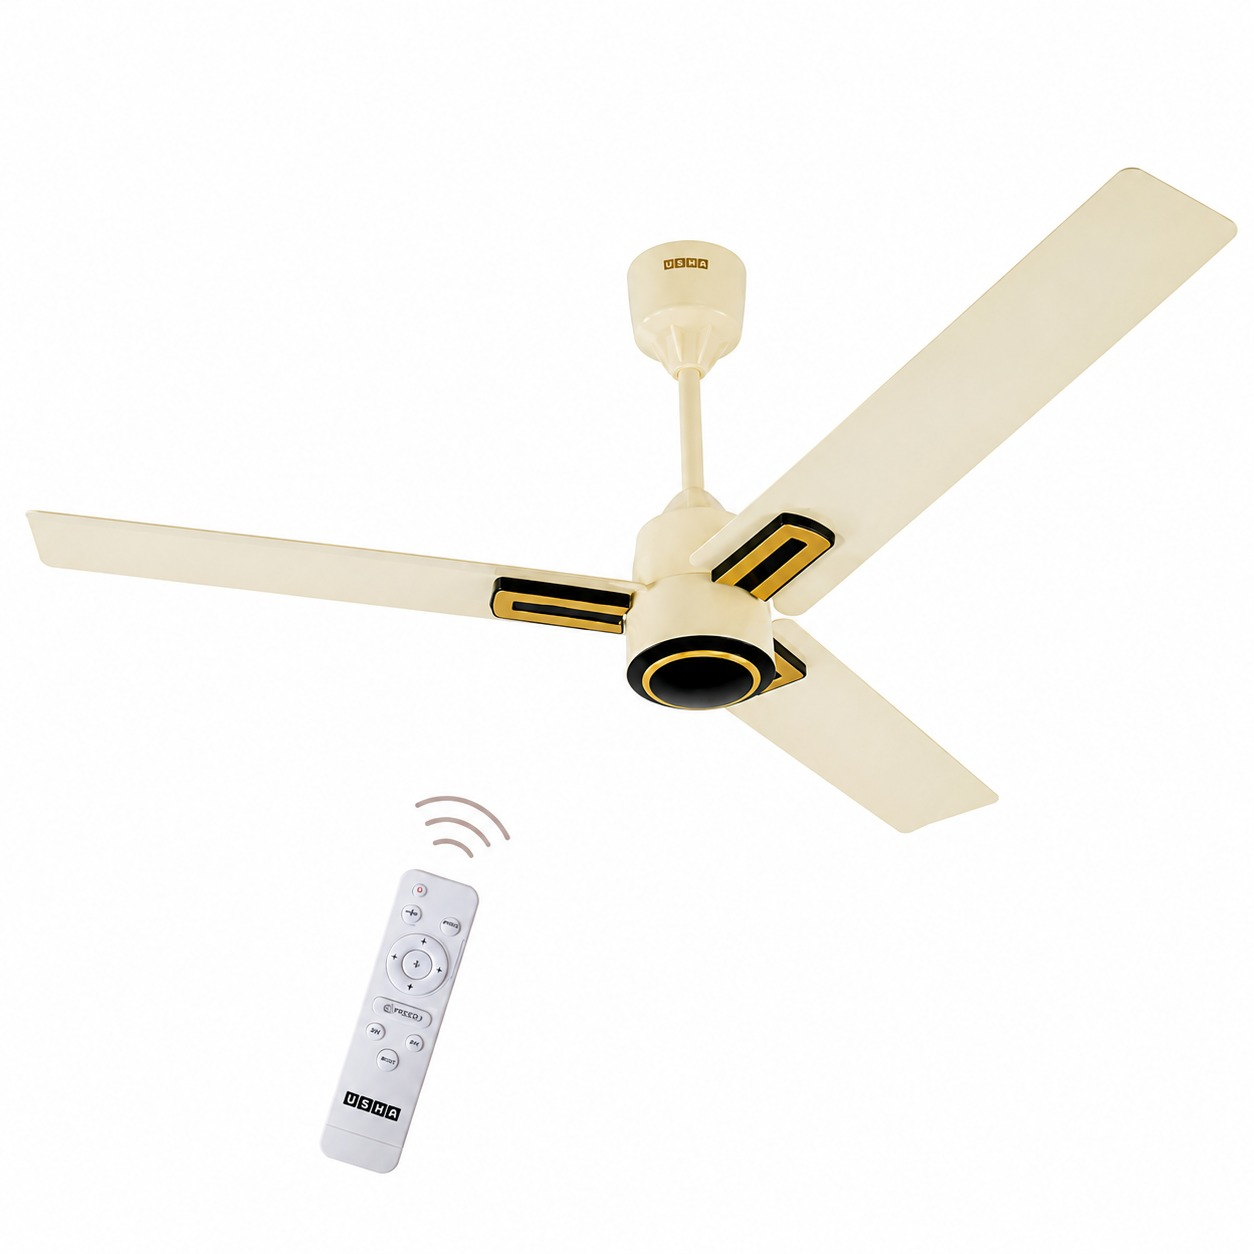
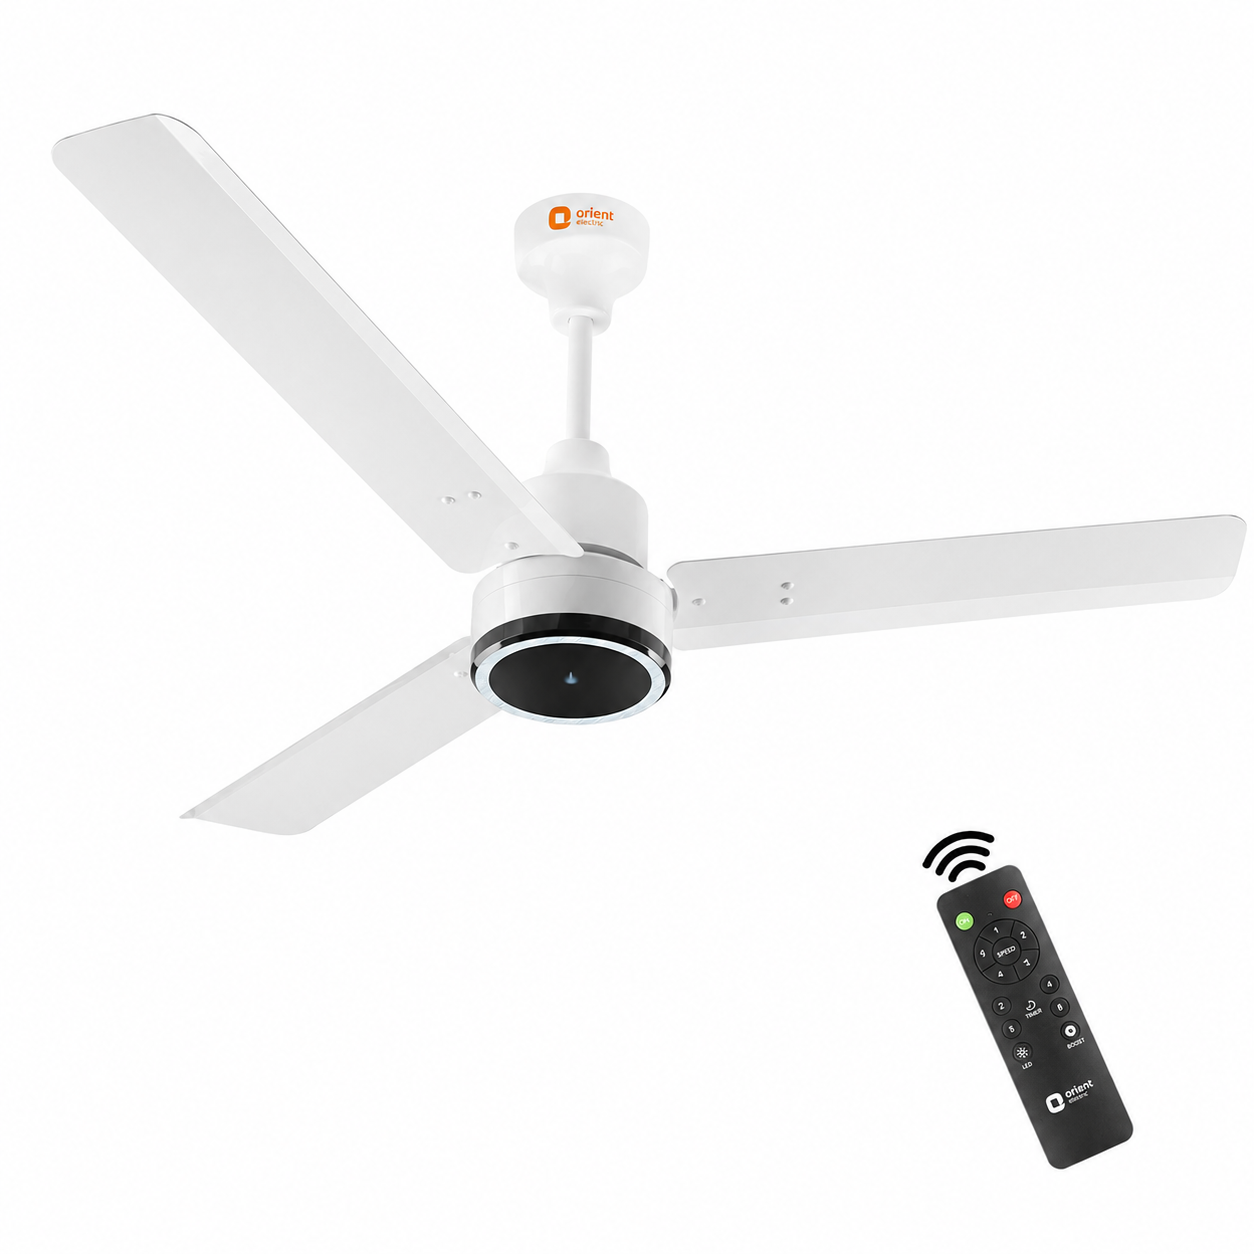
chore: add new furniture products and update Crompton fan details

Changed region(s): [[0.0, 0.0933, 0.9952, 0.933], [0.2488, 0.622, 0.4043, 0.933], [0.4354, 0.1555, 0.4976, 0.1866]]

diff --git a/src/data/products.ts b/src/data/products.ts
@@ -20,6 +20,20 @@ export interface Product {
 export const products: Product[] = [
   // --- FURNITURE: SOFAS ---
   {
+    id: "f021",
+    name: "3 Seater Wooden Sofa Set",
+    category: "furniture",
+    subcategory: "Sofas",
+    price: 12517,
+    rating: 4.5,
+    reviewCount: 420,
+    images: ["/products/product-35.jpeg"],
+    description: "Elegant 3-seater wooden sofa set featuring a durable solid wood frame and comfortable cushioned seating. A perfect blend of traditional and modern style.",
+    features: ["Solid wood frame", "Comfortable fabric cushions", "3 seater design", "Durable finish", "Easy assembly"],
+    specs: { Configuration: "3 Seater", Material: "Solid Wood", Upholstery: "Fabric", Warranty: "1 Year" },
+    inStock: true,
+  },
+  {
     id: "f001",
     name: "Wooden 5-Seater Sofa Set with Centre Table",
     category: "furniture",
@@ -94,6 +108,20 @@ export const products: Product[] = [
     specs: { Size: "Single (6x3 ft)", Material: "Teak + MDF", Storage: "2 drawers", "Age Group": "4-14 years", Warranty: "2 Years" },
     inStock: true,
     colors: ["Teak & White"],
+  },
+  {
+    id: "f020",
+    name: "Wakefit Taurus Engineered Wood Queen Hydraulic Bed",
+    category: "furniture",
+    subcategory: "Bedroom",
+    price: 20909,
+    rating: 4.6,
+    reviewCount: 910,
+    images: ["/products/product-34.jpeg"],
+    description: "Wakefit Taurus Queen size bed crafted from high-quality engineered wood. Features a hydraulic storage system providing ample space for your bedding and essentials, finished in a premium Columbian Walnut color.",
+    features: ["Queen size", "Hydraulic storage system", "Premium Columbian Walnut finish", "Engineered wood construction", "Easy lift mechanism"],
+    specs: { Size: "Queen", Material: "Engineered Wood", Storage: "Hydraulic", Finish: "Columbian Walnut", Warranty: "3 Years" },
+    inStock: true,
   },
 
   // --- FURNITURE: DINING ---
@@ -340,30 +368,44 @@ export const products: Product[] = [
   },
   {
     id: "e007",
-    name: "Crompton Aura Prime Ceiling Fan 1200mm",
+    name: "Crompton Caelum with 4 Year Warranty BLDC with Remote and Regulator 1200 mm Ceiling Fan",
     category: "electronics",
     subcategory: "Home Appliances",
     price: 1650,
     rating: 4.5,
     reviewCount: 2341,
     images: ["/products/product-14.jpeg"],
-    description: "Crompton Aura Prime 1200mm ceiling fan in premium brown finish with anti-dust coating and high air delivery motor. Suitable for rooms up to 144 sq ft.",
-    features: ["1200mm sweep", "Anti-dust coating", "High-speed motor", "Aerodynamic blades", "2-year warranty"],
-    specs: { Sweep: "1200mm", Power: "75W", "Air Delivery": "230 CMM", Finish: "Brown", Warranty: "2 Years" },
+    description: "Crompton Caelum 1200mm BLDC ceiling fan in a sleek grey finish. Comes with both a remote and a regulator for ultimate convenience and energy efficiency.",
+    features: ["Energy efficient BLDC motor", "Includes Remote and Regulator", "1200mm sweep", "Sleek grey design", "4-year warranty"],
+    specs: { Sweep: "1200mm", Type: "BLDC", Control: "Remote & Regulator", Finish: "Grey", Warranty: "4 Years" },
     inStock: true,
   },
   {
     id: "e010",
-    name: "Usha BLDC Ceiling Fan with Remote 1200mm",
+    name: "Orient Electric Ujala Prime BLDC",
     category: "electronics",
     subcategory: "Home Appliances",
-    price: 3299,
+    price: 2999,
     rating: 4.8,
     reviewCount: 1876,
     images: ["/products/product-21.jpeg"],
-    description: "Usha BLDC inverter ceiling fan with remote control, 5-speed settings, and ultra-low power consumption of only 28W. Ivory & gold finish.",
-    features: ["BLDC motor (28W only)", "Remote control included", "5-speed settings", "Timer function", "Compatible with inverter"],
-    specs: { Sweep: "1200mm", Power: "28W (BLDC)", Speeds: "5 + reverse", Finish: "Ivory & Gold", Warranty: "2 Years" },
+    description: "Orient Electric Ujala Prime BLDC inverter ceiling fan with smart remote control. Features ultra-low power consumption and premium white finish.",
+    features: ["Energy efficient BLDC motor", "Remote control included", "5-speed settings", "Timer function", "Compatible with inverter"],
+    specs: { Sweep: "1200mm", Power: "28W (BLDC)", Speeds: "5 + reverse", Finish: "White", Warranty: "2 Years" },
+    inStock: true,
+  },
+  {
+    id: "e015",
+    name: "Havells 52 L Room Air Cooler",
+    category: "electronics",
+    subcategory: "Home Appliances",
+    price: 5999,
+    rating: 4.5,
+    reviewCount: 421,
+    images: ["/products/product-33.jpeg"],
+    description: "Havells 52 Litres Room Air Cooler for efficient and powerful cooling. Features honeycomb cooling pads and a strong air delivery system for hot summers.",
+    features: ["52 Litres water tank capacity", "Honeycomb cooling pads", "Powerful air delivery", "Inverter compatible", "Castor wheels for mobility"],
+    specs: { Capacity: "52 Liters", "Cooling Media": "Honeycomb", Type: "Room Cooler", Warranty: "1 Year" },
     inStock: true,
   },
 

diff --git a/src/app/products/[id]/page.tsx b/src/app/products/[id]/page.tsx
@@ -199,7 +199,6 @@ export default function ProductDetailPage() {
                   ))}
                 </div>
                 <span className={cn("text-sm font-medium", isDark ? "text-white" : "text-[#1a1a1a]")}>{product.rating}</span>
-                <span className={cn("text-sm", isDark ? "text-white/40" : "text-black/40")}>({product.reviewCount} reviews)</span>
               </div>
 
               {/* Price */}
@@ -326,7 +325,7 @@ export default function ProductDetailPage() {
                     : "border-transparent text-black/40 hover:text-black"
                 )}
               >
-                {tab === "reviews" ? `Reviews (${product.reviewCount})` : tab}
+                {tab}
               </button>
             ))}
           </div>
@@ -390,7 +389,6 @@ export default function ProductDetailPage() {
                           <Star key={i} size={14} className={i < Math.floor(product.rating) ? "text-[#4a6fa5] fill-[#4a6fa5]" : "text-gray-300"} />
                         ))}
                       </div>
-                      <p className={cn("text-sm mt-1", isDark ? "text-white/50" : "text-black/40")}>{product.reviewCount} reviews</p>
                     </div>
                     <div className="flex-1">
                       {[5, 4, 3, 2, 1].map((n) => (

diff --git a/src/components/ProductCard.tsx b/src/components/ProductCard.tsx
@@ -106,7 +106,7 @@ export function ProductCard({ product, theme, className }: ProductCardProps) {
             ))}
           </div>
           <span className={cn("text-xs", isDark ? "text-white/40" : "text-black/40")}>
-            {product.rating} ({product.reviewCount})
+            {product.rating}
           </span>
         </div>
 